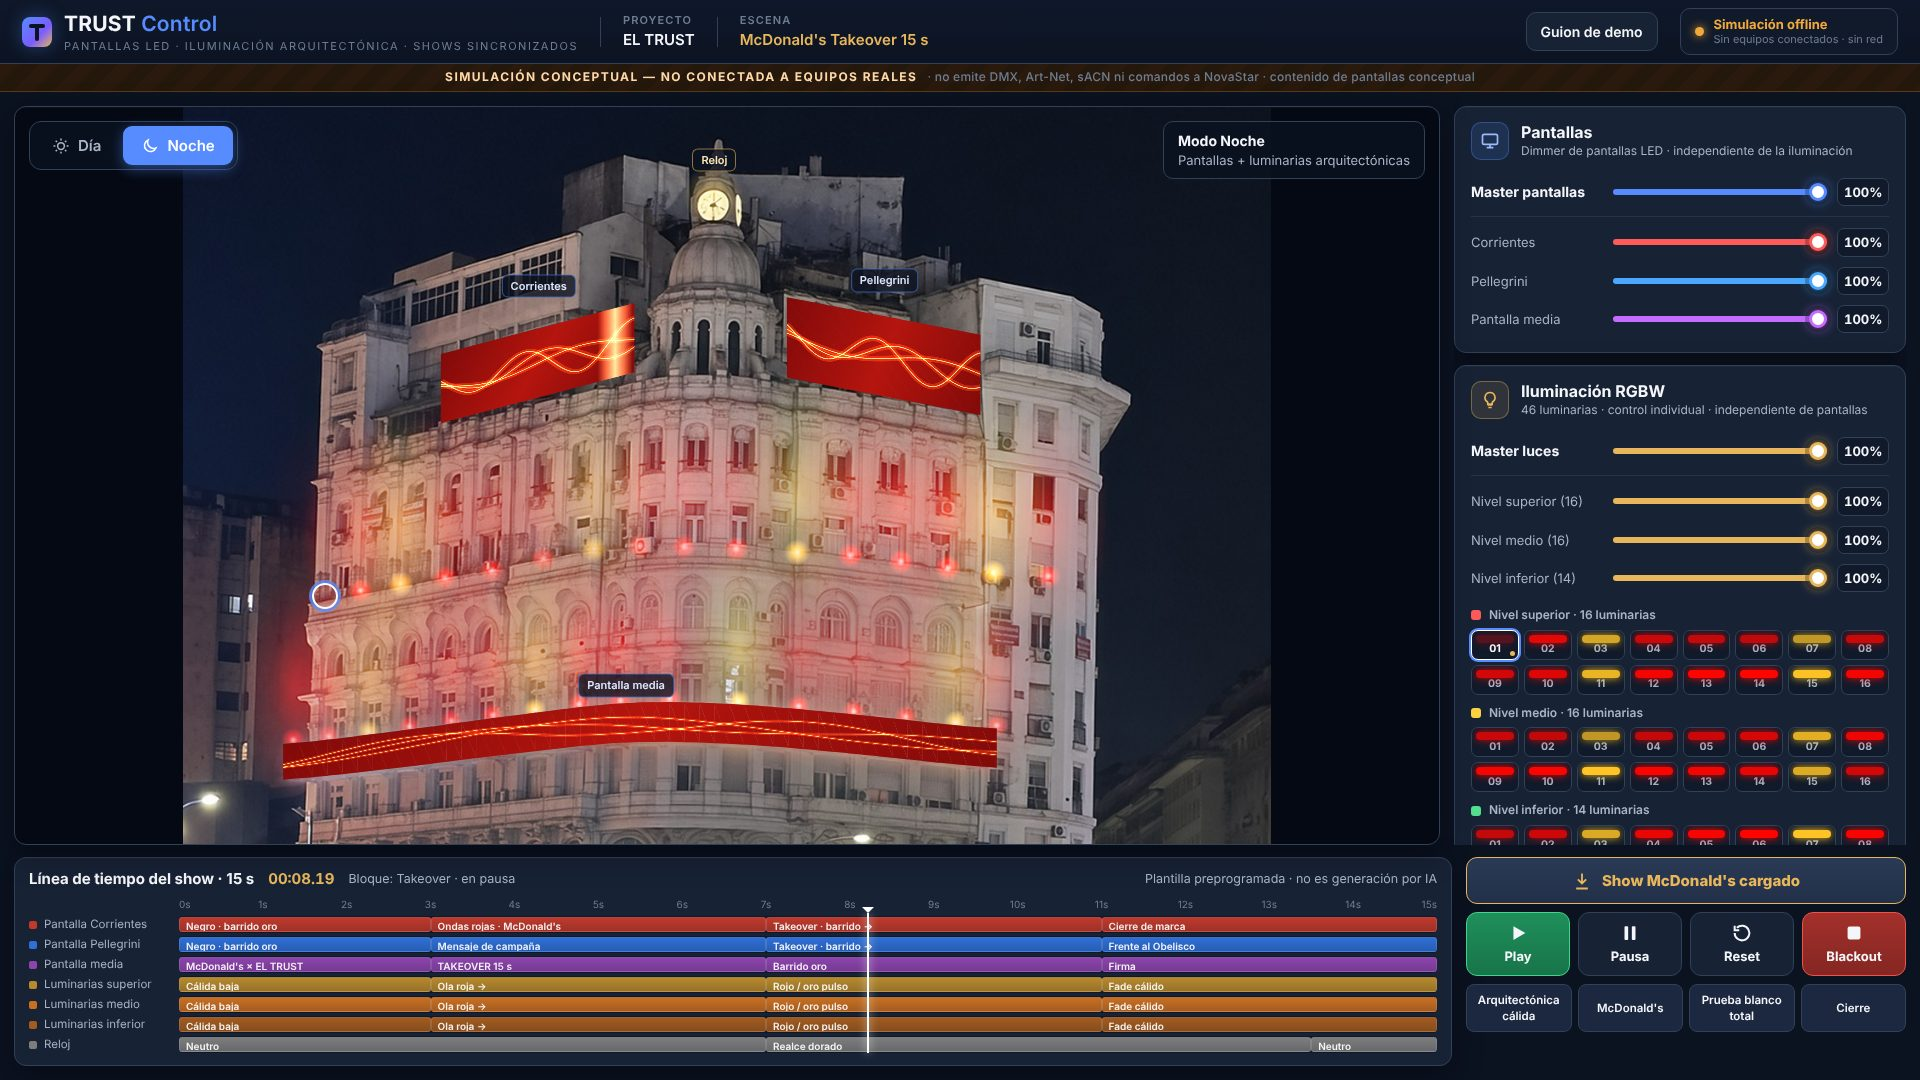
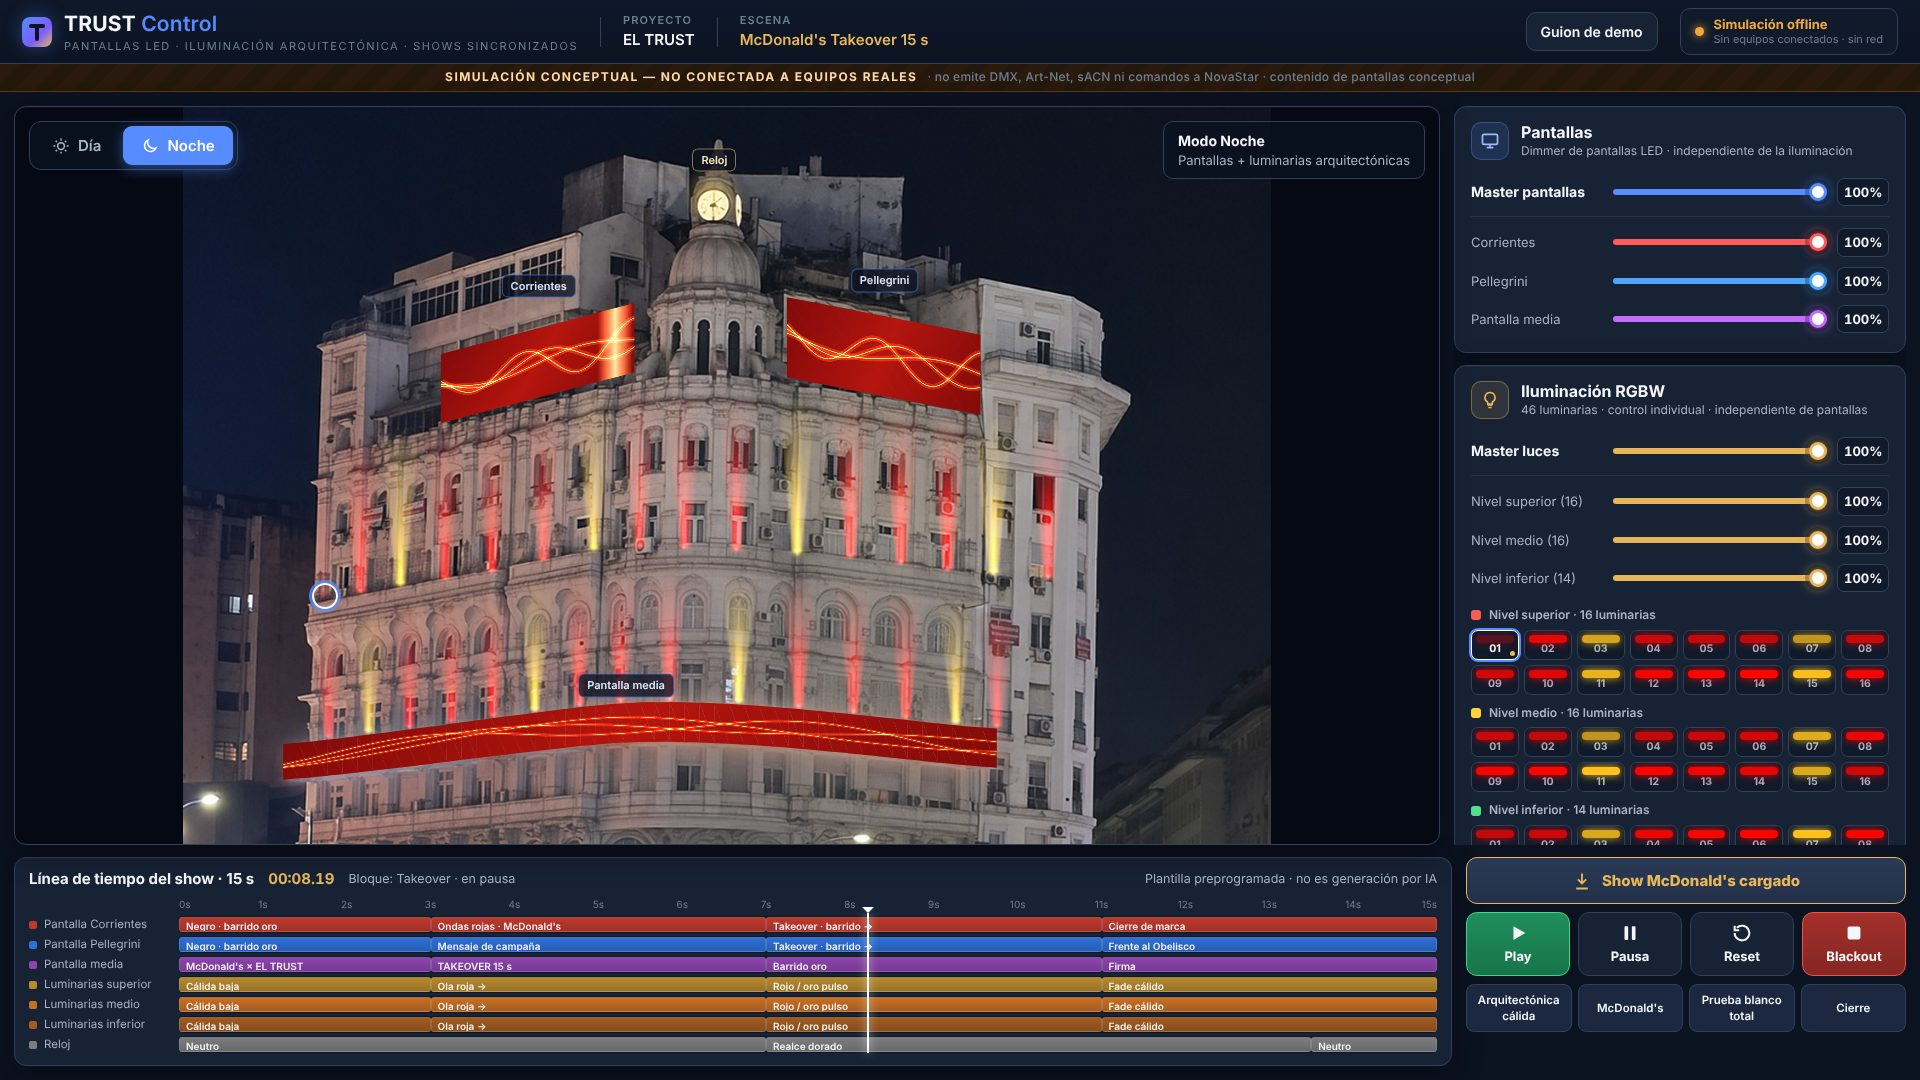
kit(#73): TRUST Control — luz en conos de bañador y recortada a la fachada
Corrección de Fer (14/10): la fila superior se derramaba hacia el costado y
la luz tenía que verse como conos marcados, estilo de su referencia.
- Cada luminaria dibuja un haz vertical (angosto y brillante en el equipo,
  se abre hacia arriba) con núcleo, derrame corto y bordes suaves.
- Máscara de silueta del edificio medida sobre la foto: la luz no sale al
  cielo ni al vecino. Se mantiene la máscara de pantallas y reloj.
- Escena arquitectónica en dorado cálido.
- prueba_control.py 40/40 OK; capturas y paquete offline regenerados.

Claude-Session: https://claude.ai/code/session_01DXe61vLeD4dUBhNGGR4spu

Changed region(s): [[0.125, 0.3667, 0.5938, 0.7028]]

diff --git a/kit/mcd-73/control/app.js b/kit/mcd-73/control/app.js
@@ -175,7 +175,7 @@
   }
 
   // ---------- luces ----------
-  const rgbDe = (q) => [Math.min(1, q.r + q.w), Math.min(1, q.g + q.w * 0.86), Math.min(1, q.b + q.w * 0.66)];
+  const rgbDe = (q) => [Math.min(1, q.r + q.w), Math.min(1, q.g + q.w * 0.8), Math.min(1, q.b + q.w * 0.52)];   // W de previsualización: blanco cálido
   function separacion(W) {   // distancia típica entre vecinos del mismo nivel, para dimensionar el halo
     const out = {};
     for (const g of M.GRUPOS) {
@@ -187,8 +187,32 @@
     }
     return out;
   }
+  // Silueta de la fachada sobre ESTA foto (bordes medidos con grilla de 0,02): la luz no puede salir del edificio.
+  const SILUETA = [[0.124, 0.30], [0.843, 0.30], [0.868, 0.40], [0.843, 0.42], [0.837, 1.0], [0.117, 1.0], [0.117, 0.66], [0.124, 0.60]];
+  // Haz de bañador ("wall grazer") hacia arriba: nace angosto y brillante en el equipo y se abre barriendo la fachada.
+  function cono(c, x, y, sep, alto, col, k) {
+    const b = sep * 0.2, t = sep * 0.82, h = sep * alto;
+    const [r, g, bl] = col;
+    const tramo = (ancho0, ancho1, a0, a1, a2) => {
+      const gr = c.createLinearGradient(x, y, x, y - h);
+      gr.addColorStop(0, `rgba(${r},${g},${bl},${a0 * k})`); gr.addColorStop(0.18, `rgba(${r},${g},${bl},${a1 * k})`);
+      gr.addColorStop(0.6, `rgba(${r},${g},${bl},${a2 * k})`); gr.addColorStop(1, `rgba(${r},${g},${bl},0)`);
+      c.fillStyle = gr; c.beginPath();
+      c.moveTo(x - ancho0 / 2, y); c.lineTo(x - ancho1 / 2, y - h);
+      c.quadraticCurveTo(x, y - h * 1.07, x + ancho1 / 2, y - h); c.lineTo(x + ancho0 / 2, y); c.closePath(); c.fill();
+    };
+    tramo(b, t, 0.95, 0.72, 0.3);               // haz
+    tramo(b * 0.45, t * 0.34, 0.9, 0.6, 0.18);  // núcleo más intenso
+    const sp = c.createRadialGradient(x, y, 0, x, y, sep * 0.22);   // derrame corto sobre la cornisa
+    sp.addColorStop(0, `rgba(${r},${g},${bl},${0.55 * k})`); sp.addColorStop(1, `rgba(${r},${g},${bl},0)`);
+    c.fillStyle = sp; c.beginPath(); c.ellipse(x, y, sep * 0.22, sep * 0.09, 0, 0, Math.PI * 2); c.fill();
+    const hs = c.createRadialGradient(x, y, 0, x, y, sep * 0.08);   // el equipo
+    hs.addColorStop(0, `rgba(255,255,255,${0.9 * k})`); hs.addColorStop(1, `rgba(${r},${g},${bl},0)`);
+    c.fillStyle = hs; c.beginPath(); c.arc(x, y, sep * 0.08, 0, Math.PI * 2); c.fill();
+  }
+  const ALTO_HAZ = { superior: 3.4, medio: 3.0, inferior: 3.0 };
   function dibujarLuces(sal, W, H) {
-    lctx.setTransform(1, 0, 0, 1, 0, 0); lctx.globalCompositeOperation = 'source-over'; lctx.globalAlpha = 1;
+    lctx.setTransform(1, 0, 0, 1, 0, 0); lctx.globalCompositeOperation = 'source-over'; lctx.globalAlpha = 1; lctx.filter = 'none';
     lctx.clearRect(0, 0, W, H);
     const sep = separacion(W);
     lctx.globalCompositeOperation = 'lighter';
@@ -196,19 +220,17 @@
     for (const s of sal.luces) {
       const p = puntos[s.id];
       if (!p || s.nivel <= 0.002) continue;
-      const [r, g, b] = rgbDe(s.rgbw).map((v) => Math.round(v * 255));
-      const x = p[0] * W, y = p[1] * H, rx = sep[s.grupo] * 1.3, ry = rx * 2.1, k = s.nivel;   // bañador hacia arriba: más alto que ancho
-      lctx.save(); lctx.translate(x, y - ry * 0.45); lctx.scale(1, ry / rx);
-      const gr = lctx.createRadialGradient(0, 0, 0, 0, 0, rx);
-      gr.addColorStop(0, `rgba(${r},${g},${b},${0.66 * k})`); gr.addColorStop(0.45, `rgba(${r},${g},${b},${0.3 * k})`); gr.addColorStop(1, `rgba(${r},${g},${b},0)`);
-      lctx.fillStyle = gr; lctx.beginPath(); lctx.arc(0, 0, rx, 0, Math.PI * 2); lctx.fill(); lctx.restore();
-      const hs = lctx.createRadialGradient(x, y, 0, x, y, rx * 0.22);
-      hs.addColorStop(0, `rgba(255,255,255,${0.85 * k})`); hs.addColorStop(0.35, `rgba(${r},${g},${b},${0.8 * k})`); hs.addColorStop(1, `rgba(${r},${g},${b},0)`);
-      lctx.fillStyle = hs; lctx.beginPath(); lctx.arc(x, y, rx * 0.22, 0, Math.PI * 2); lctx.fill();
+      const col = rgbDe(s.rgbw).map((v) => Math.round(v * 255));
+      cono(lctx, p[0] * W, p[1] * H, sep[s.grupo], ALTO_HAZ[s.grupo], col, s.nivel);
       dibujadas++;
     }
-    // Máscara de oclusión: la luz arquitectónica NUNCA cae sobre los píxeles LED ni sobre la esfera del reloj.
-    lctx.globalCompositeOperation = 'destination-out'; lctx.fillStyle = '#000';
+    // La luz queda DENTRO de la silueta del edificio (no se derrama al cielo ni al vecino)…
+    lctx.globalCompositeOperation = 'destination-in'; lctx.fillStyle = '#000';
+    lctx.beginPath(); lctx.moveTo(SILUETA[0][0] * W, SILUETA[0][1] * H);
+    for (const [x, y] of SILUETA.slice(1)) lctx.lineTo(x * W, y * H);
+    lctx.closePath(); lctx.fill();
+    // …y NUNCA cae sobre los píxeles LED ni sobre la esfera del reloj (máscara de oclusión).
+    lctx.globalCompositeOperation = 'destination-out';
     lctx.beginPath();
     for (const sup of Object.values(G.superficies)) for (const qd of sup.quads) trazarQuad(lctx, aPx(qd, W, H));
     trazarQuad(lctx, aPx(G.reloj.quad, W, H));
@@ -240,7 +262,9 @@
     // 2. luces
     const n = dibujarLuces(sal, W, H);
     ctx.globalCompositeOperation = 'screen'; ctx.globalAlpha = dia ? 0.06 : 1;
+    ctx.filter = `blur(${Math.max(0.8, W / 900).toFixed(2)}px)`;   // bordes de haz suaves, como en la realidad
     ctx.drawImage(capaLuz, 0, 0);
+    ctx.filter = 'none';
     ctx.globalCompositeOperation = 'source-over'; ctx.globalAlpha = 1;
 
     // 3. reloj

diff --git a/kit/mcd-73/control/motor.js b/kit/mcd-73/control/motor.js
@@ -27,7 +27,7 @@
 
   // Colores de escena (canales RGBW 0..1). Son colores de PREVISUALIZACIÓN, no un patch DMX.
   const C = {
-    calido: { r: 0.30, g: 0.12, b: 0.00, w: 0.95 },
+    calido: { r: 0.60, g: 0.20, b: 0.00, w: 0.80 },   // dorado cálido (referencia de estilo de Fer)
     rojo: { r: 1.00, g: 0.02, b: 0.00, w: 0.00 },
     oro: { r: 1.00, g: 0.58, b: 0.00, w: 0.22 },
     blanco: { r: 1.00, g: 1.00, b: 1.00, w: 1.00 },
